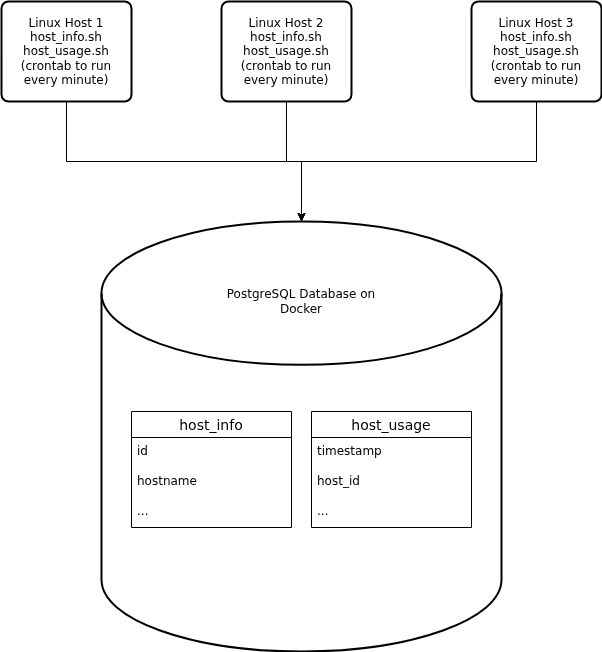
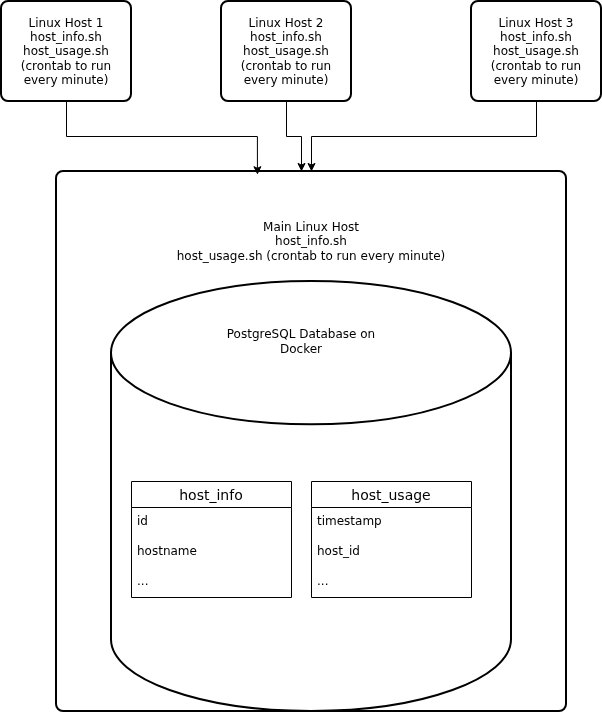
Added changes as requested by Trevor

diff --git a/linux_sql/README.md b/linux_sql/README.md
@@ -1,6 +1,6 @@
 # Linux Cluster Monitoring Agent
 # Introduction
-The Linux Cluster Monitoring Agent is a program that helps collect information from Linux servers in a cluster. Specifically, it collects the server hardware information once and then in set intervals (such as every minute) collects the server's resource usage. Note that the only Linux distro that this has been tested on is for Rocky 9 Linux, but it may work for other distros. The data is collected by executing bash scripts that run Linux commands and then saving the data in a PostgreSQL database that's run on a Docker container. Git and GitHub have been used throughout the development of this project. Note that though the project is meant for collecting information across multiple servers and storing them in one database, the current version only works collect and stores the data inside the given server.
+The Linux Cluster Monitoring Agent is a program that helps collect information from Linux servers in a cluster. Specifically, it collects the server hardware information once and then in set intervals (such as every minute) collects the server's resource usage. Note that the only Linux distro that this has been tested on is for Rocky 9 Linux, but it may work for other distros. The data is collected by executing bash scripts that run Linux commands and then saving the data in a PostgreSQL database that's run on a Docker container. Note that small adjustments are needed so that the data collection works across a cluster of servers - explicitly being that the main psql database container must be connected through TCP from other external Linux servers.
 
 # Implementation
 The tool works by setting up a psql docker container where the data for the server is collected. Thus, first both docker and the postgres image must be downloaded. The psql_docker.sh script is then used to create, start, and potentially stop the docker container for the tool. Then a database called host_agent is created in the container (data persists on the computer through a volume named pgdata) and the tables used for data storage are initialised as defined in ddl.sql.
@@ -10,7 +10,7 @@ The database is now ready so first the hardware information is inserted into the
 
 
 ## Architecture
-Visual diagram of a three Linux server cluster running the data collection agents and passing that information to a PostgreSQL database that's run on Docker
+Visual diagram of a three external Linux server cluster running the data collection agents and passing that information to a PostgreSQL database running on Docker on the main Linux server that's also collecting its own data
 
 ![my image](./assets/ClusterDiagram.png)
 
@@ -24,10 +24,10 @@ Visual diagram of a three Linux server cluster running the data collection agent
 3. host_usage.sh is run to collect the server's resource usage information
 
 ```./scripts/host_usage.sh psql_host psql_port host_agent psql_user psql_password```
-4. crontab is used to automate running commands over every given time interval
+4. cron is used to automate running commands over every given time interval
 
 ```
-# edit the crontab jobs currently running
+# edit the cron jobs currently running
 crontab -e
 
 # add this command with your current path to crontab so that the script runs every minute
@@ -41,29 +41,29 @@ psql -h localhost -U postgres -d host_agent -f sql/ddl.sql
 ## Database Modeling
 ### `host_info`
 
-| Name | Data type | Short description                      |
-|---|---|----------------------------------------|
-| id | SERIAL | Auto-increment primary key             |
-| hostname | VARCHAR | Name of the host machine (unique)      |
-| cpu_number | INT2 | Number of CPU cores (vCPUs)            |
-| cpu_architecture | VARCHAR | Type of CPU architecture               |
-| cpu_model | VARCHAR | Human-readable CPU model name          |
-| cpu_mhz | FLOAT8 | CPU frequency (MHz)                    |
-| l2_cache | INT4 | L2 cache size (kB)                     |
-| timestamp | TIMESTAMP | Time hardware data was collected (UTC) |
-| total_mem | INT4 | Total system memory (kB)               |
+| Name | Data type            | Short description                     |
+|---|----------------------|---------------------------------------|
+| id | SERIAL (PRIMARY KEY) | Auto-increment primary key            |
+| hostname | VARCHAR (UNIQUE)     | Name of the host machine     |
+| cpu_number | INT2                 | Number of CPU cores (vCPUs)           |
+| cpu_architecture | VARCHAR              | Type of CPU architecture              |
+| cpu_model | VARCHAR              | Human-readable CPU model name         |
+| cpu_mhz | FLOAT8               | CPU frequency (MHz)                   |
+| l2_cache | INT4                 | L2 cache size (kB)                    |
+| timestamp | TIMESTAMP            | Time hardware data was collected (UTC) |
+| total_mem | INT4                 | Total system memory (kB)              |
 
 ### `host_usage`
 
-| Name | Data type | Short description                               |
-|---|---|-------------------------------------------------|
-| timestamp | TIMESTAMP | Time usage data was collected (UTC)             |
-| host_id | SERIAL | Foreign key that references `id` in `host_info` |
-| memory_free | INT4 | Free memory amount (MB)                         |
-| cpu_idle | INT2 | Percent of total CPU time in idle               |
-| cpu_kernel | INT2 | Percent of total CPU time running kernel code   |
-| disk_io | INT4 | Time spent doing I/O operations (seconds)       |
-| disk_available | INT4 | Available disk space (MB)                       |
+| Name | Data type            | Short description                               |
+|---|----------------------|-------------------------------------------------|
+| timestamp | TIMESTAMP            | Time usage data was collected (UTC)             |
+| host_id | SERIAL (FOREIGN KEY) | Foreign key that references `id` in `host_info` |
+| memory_free | INT4                 | Free memory amount (MB)                         |
+| cpu_idle | INT2                 | Percent of total CPU time in idle               |
+| cpu_kernel | INT2                 | Percent of total CPU time running kernel code   |
+| disk_io | INT4                 | Time spent doing I/O operations (seconds)       |
+| disk_available | INT4                 | Available disk space (MB)                       |
 
 # Usage
 1. Start a psql instance using psql_docker.sh given that you are currently in the linux_sql directory in the CLI (need to have docker already downloaded)
